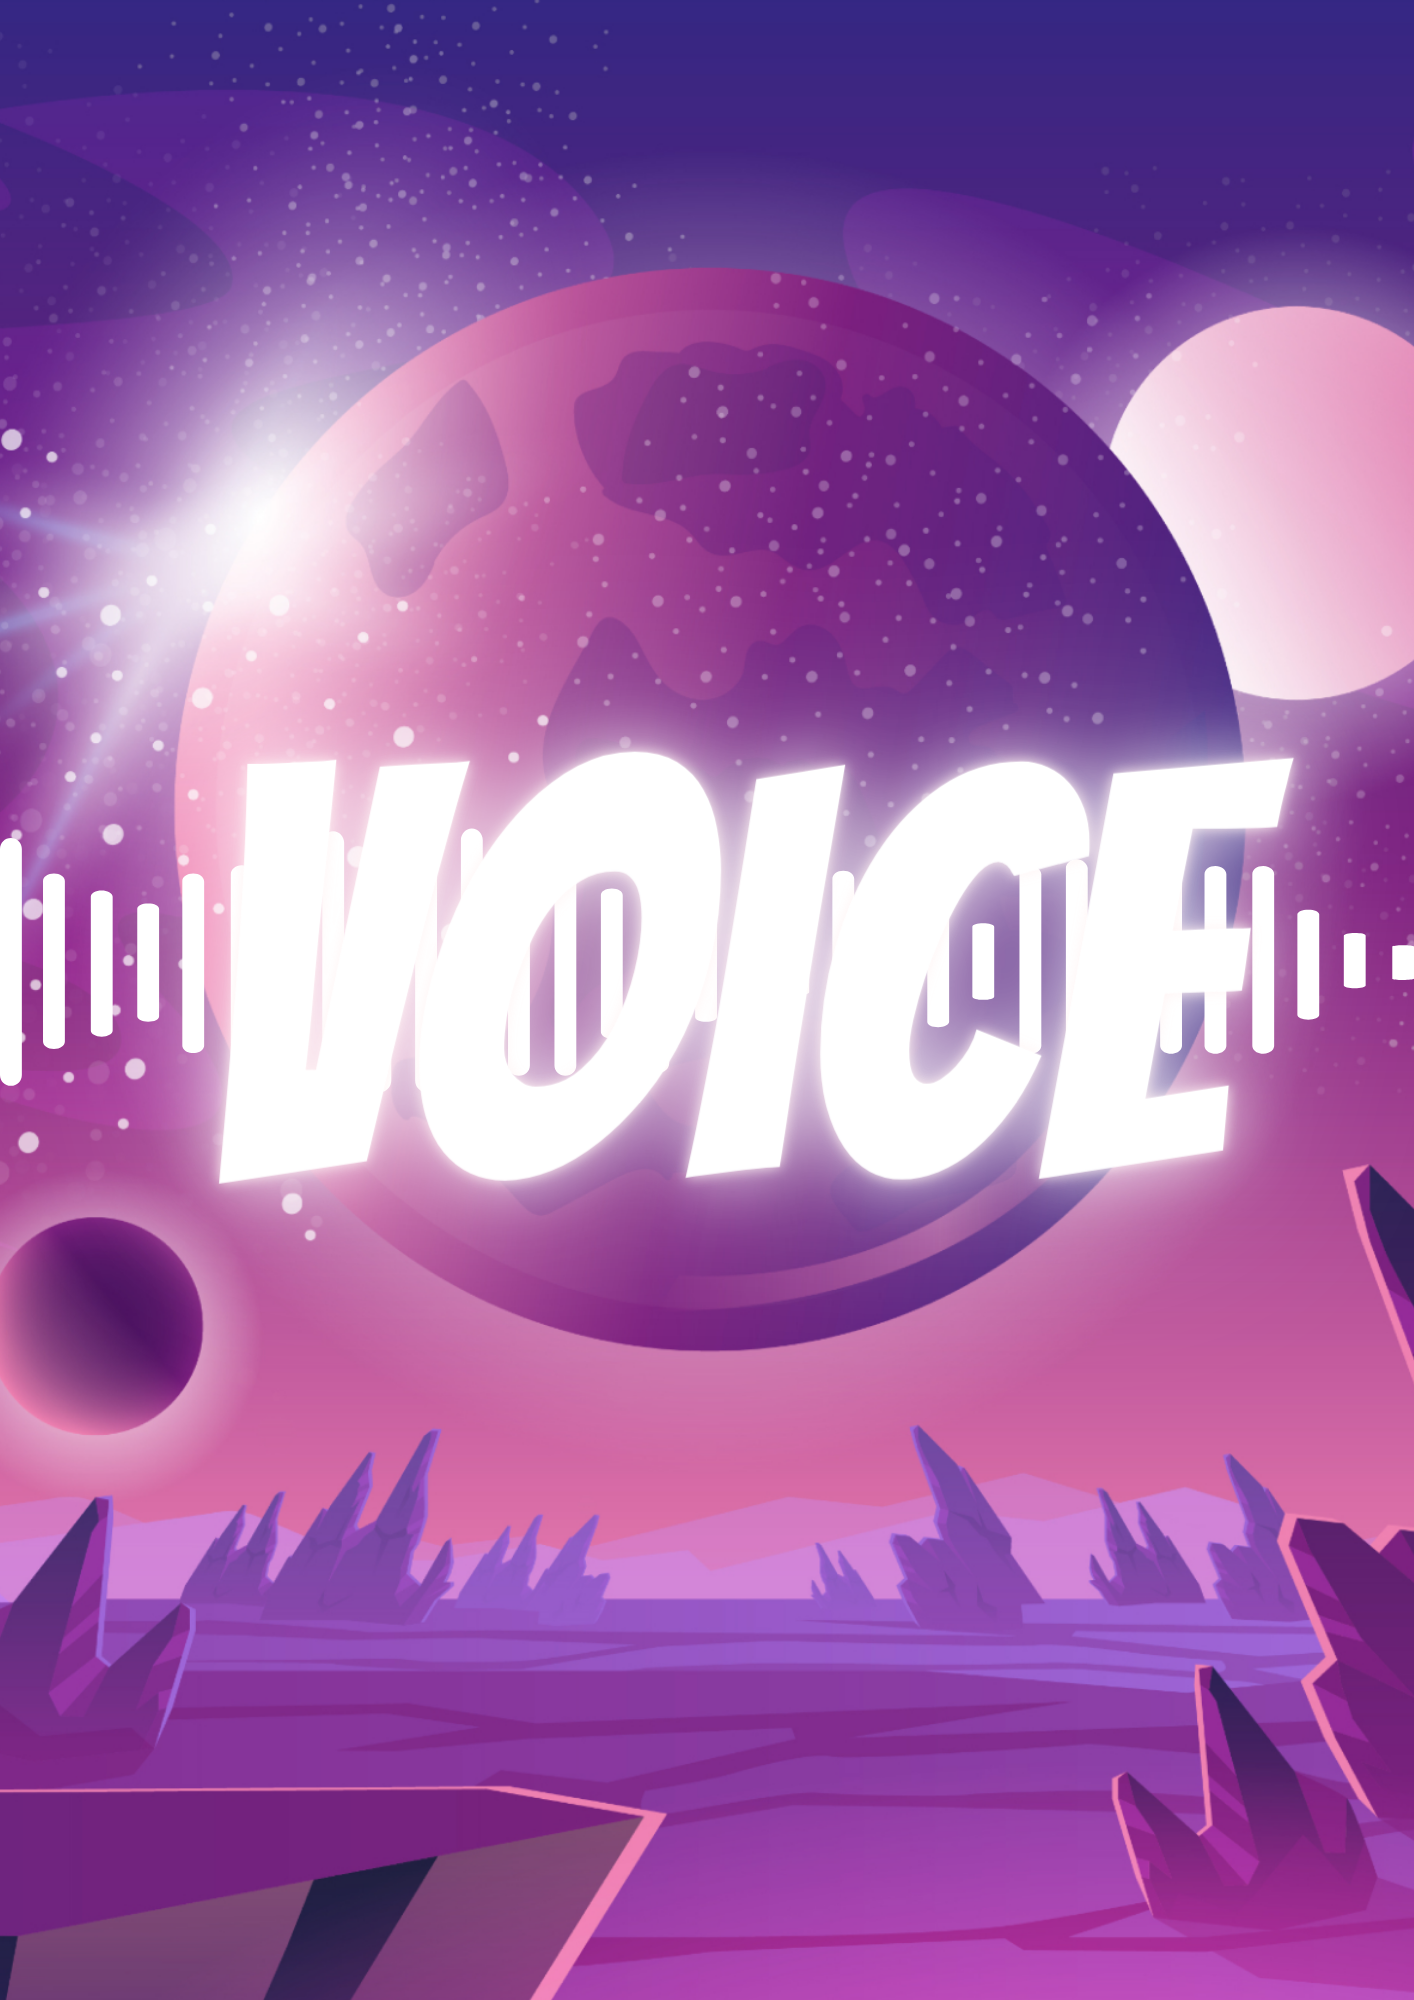
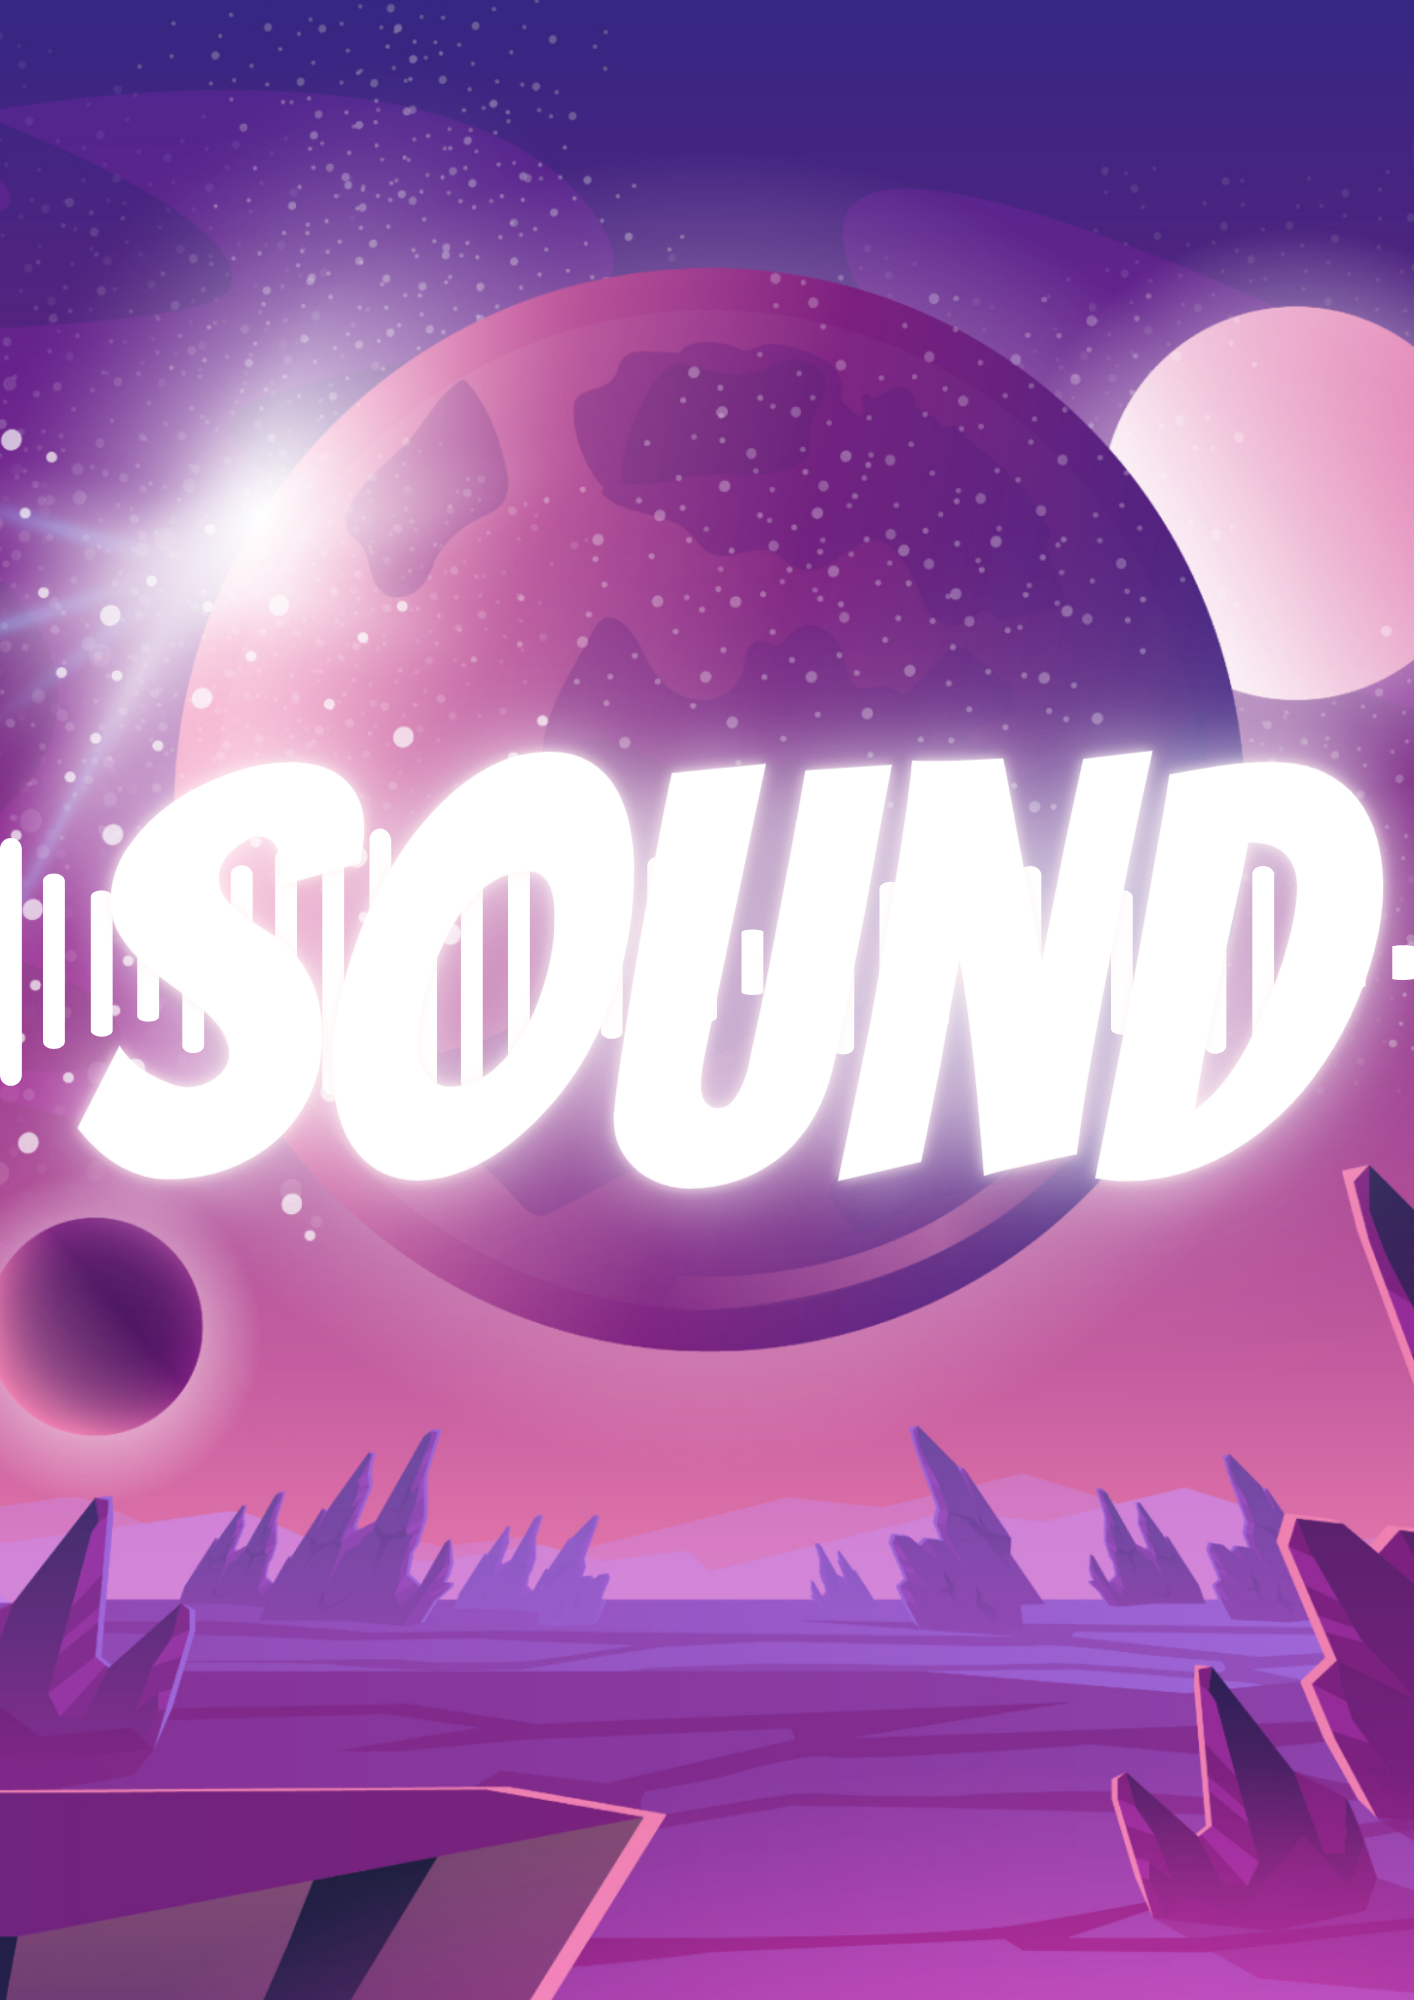
update

Changed region(s): [[0.0311, 0.341, 1.0, 0.62]]

diff --git a/constants/index.js b/constants/index.js
@@ -3,31 +3,25 @@ export const exploreWorlds = [
     id: 'world-1',
     imgUrl: '/planet-01.png',
     title: 'XD',
-    subTitle: 'AquinXD - Under Development.',
+    subTitle: 'AquinXD',
+  },
+  {
+    id: 'world-4',
+    imgUrl: '/planet-04.png',
+    title: 'Core',
+    subTitle: 'AquinCore',
   },
   {
     id: 'world-2',
     imgUrl: '/planet-02.png',
-    title: 'Voice',
-    subTitle: 'AquinVoice - Announcing Soon!',
+    title: 'Sound',
+    subTitle: 'AquinSound',
   },
   {
     id: 'world-3',
     imgUrl: '/planet-03.png',
     title: 'Infinity',
-    subTitle: 'AquinInfinity - Announcing Soon!',
-  },
-  {
-    id: 'world-4',
-    imgUrl: '/planet-04.png',
-    title: 'Statz',
-    subTitle: 'AquinStatz - Announcing Soon!',
-  },
-  {
-    id: 'world-5',
-    imgUrl: '/planet-05.png',
-    title: 'Speak',
-    subTitle: 'AquinSpeak - Announcing Soon!',
+    subTitle: 'AquinInfinity',
   },
 ];
 
@@ -52,45 +46,39 @@ export const newFeatures = [
     imgUrl: '/LOGO.png',
     title: 'Non-AI Tools',
     subtitle:
-        'Aquin currently has a variety of non-AI tools: Resume Generator, Calculators, Translators, Password Generators, Extractors, Whiteboard, QR generator, etc.',
+        'Aquin currently has a variety of non-AI tools: Resume Generator, Calculators, Translators, Password Generators, Extractors, Whiteboard, QR generator, exercise, image finder, colors etc.',
   },
   {
     imgUrl: '/LOGO.png',
-    title: 'Merchez',
+    title: 'Video Game Launcher',
     subtitle:
-        'Merchez is a tool where you can customize T-shirts!',
+        'Aquin has its own Video Game Launcher!',
   },
   {
     imgUrl: '/LOGO.png',
-    title: 'AquinGames',
+    title: 'WallArt',
     subtitle:
-        'Aquins own Video Game Launcher with 20+ games to play!',
+        'Aquin has its own Wallpaper gallery!',
   },
   {
     imgUrl: '/LOGO.png',
-    title: 'AquinWallpapers',
+    title: 'New UI/UX',
     subtitle:
-        'Aquins own wallpaper gallery from a variety of artists to pick, with a bigger variety of wallpapers by them!',
+        'Aquin now has a more user friendly user interface!',
   },
 ];
 
 export const insights = [
   {
     imgUrl: '/planet-06.png',
-    title: 'Aquin-ProtoV2.1 will include the announcement and introduction to XD.',
+    title: 'AquinV1 will include XD for the first time!',
     subtitle:
-        'Aquin-ProtoV2.1 will be released on November 12, 2023, at 8 am IST, this Diwali! It will include one of the biggest announcements, which is the introduction to XD.',
+        'AquinV1 will be released on November around this christmas, it will include one of the main components, XD.',
   },
   {
     imgUrl: '/planet-07.png',
-    title: 'Aquin-ProtoV2.1 will also include a better UI/UX with tons of improvements all over the app.',
+    title: 'AquinV1 will also include a better UI/UX with tons of improvements all over the app.',
     subtitle:
-        'Aquin-ProtoV2.1 will be released on November 12, 2023, at 8 am IST, this Diwali! It will be including a better UI/UX with tons of improvements all over the app.',
-  },
-  {
-    imgUrl: '/planet-08.png',
-    title: 'Aquin-ProtoV2.1 will also include upgrades and new non-AI tools.',
-    subtitle:
-        'Aquin-ProtoV2.1 will be released on November 12, 2023, at 8 am IST, this Diwali! It will also include upgrades and new non-AI tools.',
+        'AquinV1 will be released on November around this christmas, it will be including a whole new UI/UX with tons of improvements all over the app.',
   },
 ];

diff --git a/sections/Feedback.jsx b/sections/Feedback.jsx
@@ -37,11 +37,6 @@ const Feedback = () => (
         variants={fadeIn('left', 'tween', 0.2, 1)}
         className="relative flex-1 flex justify-center items-center"
       >
-        <img
-          src="/planet-09.png"
-          alt="planet-09"
-          className="w-full lg:h-[610px] h-auto min-h-[210px] object-cover rounded-[40px]"
-        />
 
         <motion.div
           variants={zoomIn(0.4, 1)}
